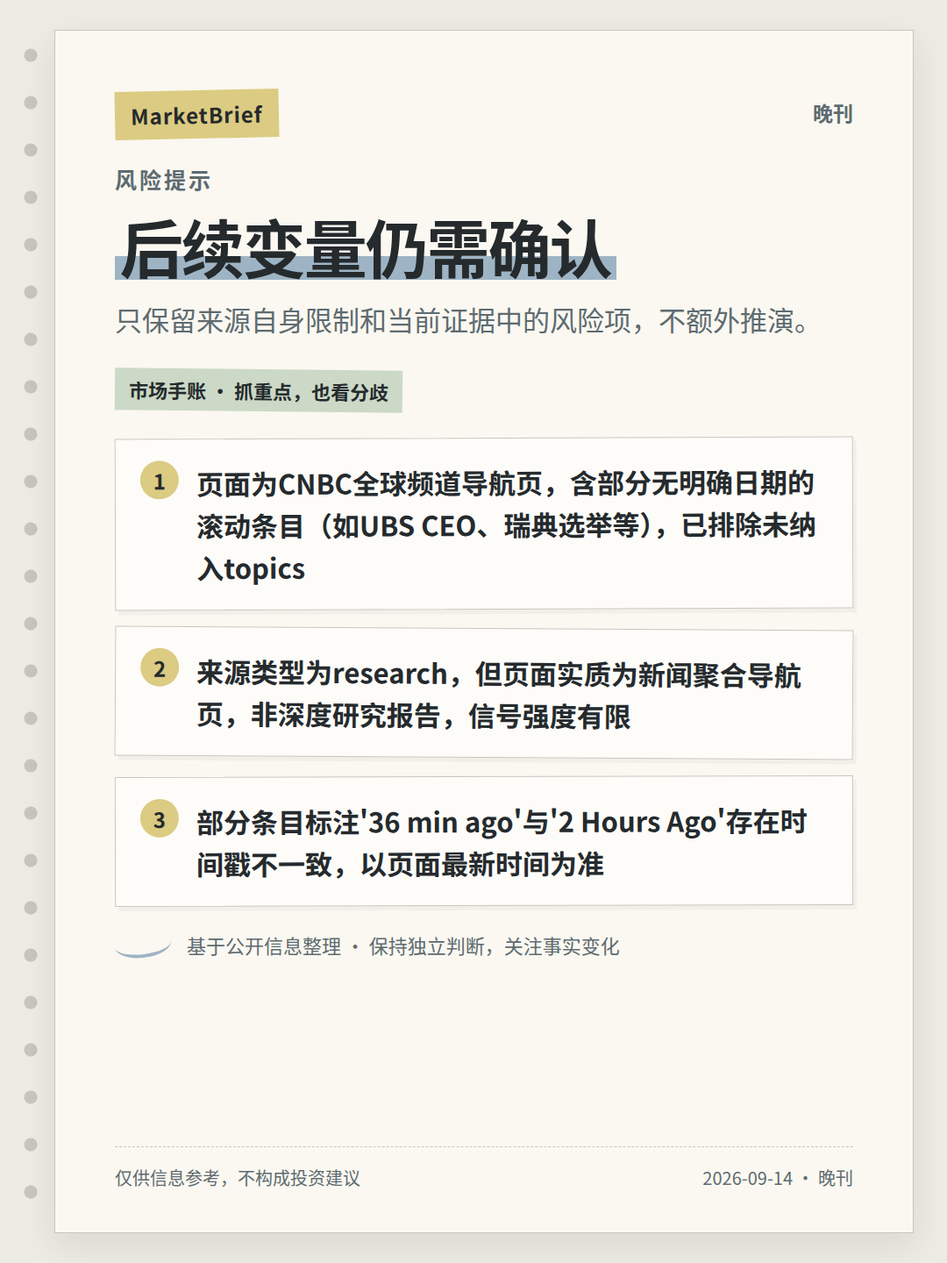
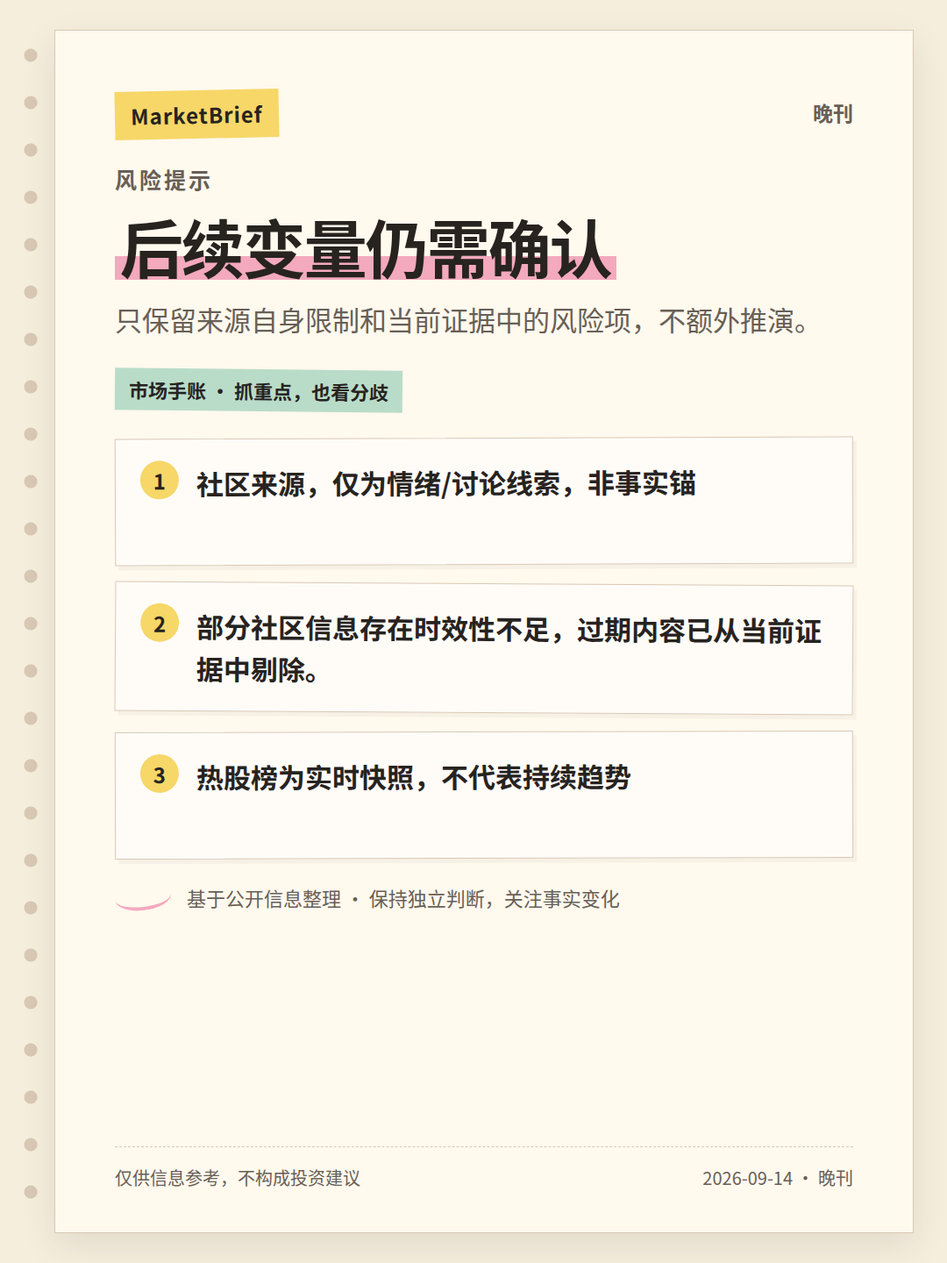
MarketBrief: publish official-source notebook edition

diff --git a/output/marketbrief/2026-09-14/pm/2026-09-14-pm-01.html b/output/marketbrief/2026-09-14/pm/2026-09-14-pm-01.html
@@ -1,33 +1,33 @@
 <!doctype html>
 <html lang="zh-CN"><head><meta charset="utf-8"><style>
-*{box-sizing:border-box}html,body{margin:0;width:1080px;height:1440px;background:#ECEBE4;color:#252A2D;font-family:'Noto Sans CJK SC','Microsoft YaHei',sans-serif}
-body:before{content:'';position:absolute;left:24px;top:36px;bottom:36px;width:22px;background:radial-gradient(circle,#C8C6BC 0 7px,transparent 8px) center top/22px 54px repeat-y}
-main{position:relative;margin:34px 38px 34px 62px;width:980px;height:1372px;padding:68px 68px 52px;background:#FAF8F1;border:1px solid #C8C6BC;box-shadow:0 14px 36px rgba(58,47,39,.10);overflow:hidden}
+*{box-sizing:border-box}html,body{margin:0;width:1080px;height:1440px;background:#F5EEDD;color:#27231F;font-family:'Noto Sans CJK SC','Microsoft YaHei',sans-serif}
+body:before{content:'';position:absolute;left:24px;top:36px;bottom:36px;width:22px;background:radial-gradient(circle,#D8C8B4 0 7px,transparent 8px) center top/22px 54px repeat-y}
+main{position:relative;margin:34px 38px 34px 62px;width:980px;height:1372px;padding:68px 68px 52px;background:#FFF9EE;border:1px solid #D8C8B4;box-shadow:0 14px 36px rgba(58,47,39,.10);overflow:hidden}
 main:after{content:none}
 .top{position:relative;z-index:1;display:flex;justify-content:space-between;align-items:flex-start;margin-bottom:28px}
-.tape{display:inline-block;padding:10px 18px;background:#DCCB82;transform:rotate(-1.2deg);font-size:24px;font-weight:800;letter-spacing:1px}
-.edition{font-size:23px;font-weight:700;color:#5E6B70;padding-top:8px}
-.kicker{position:relative;z-index:1;font-size:25px;font-weight:800;letter-spacing:3px;color:#5E6B70;margin-bottom:18px}
+.tape{display:inline-block;padding:10px 18px;background:#F6D768;transform:rotate(-1.2deg);font-size:24px;font-weight:800;letter-spacing:1px}
+.edition{font-size:23px;font-weight:700;color:#685F56;padding-top:8px}
+.kicker{position:relative;z-index:1;font-size:25px;font-weight:800;letter-spacing:3px;color:#685F56;margin-bottom:18px}
 h1{position:relative;z-index:1;font-size:72px;line-height:1.12;margin:0 0 20px;font-weight:900;letter-spacing:-2px}
-h1 span{background:linear-gradient(transparent 62%,#9EB4C4 62% 88%,transparent 88%);padding:0 .08em}
-.sub{position:relative;z-index:1;font-size:31px;line-height:1.5;color:#5E6B70;margin-bottom:34px;max-width:850px}
-.ribbon{position:relative;z-index:1;display:inline-block;padding:8px 16px;margin-bottom:30px;background:#CBD9C6;font-size:22px;font-weight:700;transform:rotate(.6deg)}
+h1 span{background:linear-gradient(transparent 62%,#F3A9BE 62% 88%,transparent 88%);padding:0 .08em}
+.sub{position:relative;z-index:1;font-size:31px;line-height:1.5;color:#685F56;margin-bottom:34px;max-width:850px}
+.ribbon{position:relative;z-index:1;display:inline-block;padding:8px 16px;margin-bottom:30px;background:#B9DCC8;font-size:22px;font-weight:700;transform:rotate(.6deg)}
 .notes{position:relative;z-index:1;display:grid;gap:21px}
-.note{position:relative;min-height:145px;padding:26px 30px 24px 92px;background:rgba(255,255,255,.56);border:1px solid #C8C6BC;box-shadow:4px 5px 0 rgba(0,0,0,.035);transform:rotate(-.2deg)}
+.note{position:relative;min-height:145px;padding:26px 30px 24px 92px;background:rgba(255,255,255,.56);border:1px solid #D8C8B4;box-shadow:4px 5px 0 rgba(0,0,0,.035);transform:rotate(-.2deg)}
 .note:nth-child(2){transform:rotate(.35deg)}.note:nth-child(3){transform:rotate(-.15deg)}
-.note b{position:absolute;left:28px;top:24px;width:44px;height:44px;border-radius:50%;display:grid;place-items:center;background:#DCCB82;font-size:24px}
+.note b{position:absolute;left:28px;top:24px;width:44px;height:44px;border-radius:50%;display:grid;place-items:center;background:#F6D768;font-size:24px}
 .note p{margin:0;font-size:31px;line-height:1.55;font-weight:650}
-.margin{position:relative;z-index:1;margin-top:28px;display:flex;gap:18px;align-items:center;color:#5E6B70;font-size:22px}
-.sketch{width:64px;height:30px;border-bottom:4px solid #9EB4C4;border-radius:50%;transform:rotate(-7deg)}
-footer{position:absolute;z-index:1;left:68px;right:68px;bottom:48px;border-top:1px dashed #C8C6BC;padding-top:20px;display:flex;justify-content:space-between;gap:20px;color:#5E6B70;font-size:20px}
+.margin{position:relative;z-index:1;margin-top:28px;display:flex;gap:18px;align-items:center;color:#685F56;font-size:22px}
+.sketch{width:64px;height:30px;border-bottom:4px solid #F3A9BE;border-radius:50%;transform:rotate(-7deg)}
+footer{position:absolute;z-index:1;left:68px;right:68px;bottom:48px;border-top:1px dashed #D8C8B4;padding-top:20px;display:flex;justify-content:space-between;gap:20px;color:#685F56;font-size:20px}
 </style></head>
 <body><main>
 <div class="top"><span class="tape">MarketBrief</span><span class="edition">晚刊</span></div>
 <div class="kicker">今日简报</div>
-<h1><span>下周美联储动向成为市场焦点</span></h1>
-<div class="sub">晚刊基于5份有效来源分析，当前重点为下周美联储动向。仅保留时效合格的公开信息，事实、研究观点与市场情绪分开呈现。</div>
+<h1><span>高利率压制流动性、底部震荡结构分化成焦点</span></h1>
+<div class="sub">晚刊基于4份有效来源分析，当前重点为高利率压制流动性、底部震荡结构分化。仅保留时效合格的公开信息，事实、研究观点与市场情绪分开呈现。</div>
 <div class="ribbon">市场手账 · 抓重点，也看分歧</div>
-<div class="notes"><section class="note"><b>1</b><p>AI安全争议与Anthropic IPO：Anthropic寻求纳斯达克上市，Amodei呼吁AI减速，引发市场分歧；Cramer质疑减速宣言；华盛顿加速AI监管立法</p></section><section class="note"><b>2</b><p>美伊霍尔木兹海峡紧张与油价：霍尔木兹海峡船只遇袭，沙特关闭绕过海峡的关键管道，特朗普称或保留伊朗石油；油价上涨，油轮基金暴涨3600%</p></section><section class="note"><b>3</b><p>晨会纪要</p></section></div>
+<div class="notes"><section class="note"><b>1</b><p>策略周报：高利率压制流动性，主要指数走低</p></section><section class="note"><b>2</b><p>策略周报：底部震荡结构分化，配置聚焦量价资金共振主线</p></section><section class="note"><b>3</b><p>策略跟踪报告：南向资金净流入额大幅提升</p></section></div>
 <div class="margin"><span class="sketch"></span><span>基于公开信息整理 · 保持独立判断，关注事实变化</span></div>
 <footer><span>仅供信息参考，不构成投资建议</span><span>2026-09-14 · 晚刊</span></footer>
 </main></body></html>

diff --git a/output/marketbrief/2026-09-14/pm/2026-09-14-pm-05.html b/output/marketbrief/2026-09-14/pm/2026-09-14-pm-05.html
@@ -1,25 +1,25 @@
 <!doctype html>
 <html lang="zh-CN"><head><meta charset="utf-8"><style>
-*{box-sizing:border-box}html,body{margin:0;width:1080px;height:1440px;background:#ECEBE4;color:#252A2D;font-family:'Noto Sans CJK SC','Microsoft YaHei',sans-serif}
-body:before{content:'';position:absolute;left:24px;top:36px;bottom:36px;width:22px;background:radial-gradient(circle,#C8C6BC 0 7px,transparent 8px) center top/22px 54px repeat-y}
-main{position:relative;margin:34px 38px 34px 62px;width:980px;height:1372px;padding:68px 68px 52px;background:#FAF8F1;border:1px solid #C8C6BC;box-shadow:0 14px 36px rgba(58,47,39,.10);overflow:hidden}
+*{box-sizing:border-box}html,body{margin:0;width:1080px;height:1440px;background:#F5EEDD;color:#27231F;font-family:'Noto Sans CJK SC','Microsoft YaHei',sans-serif}
+body:before{content:'';position:absolute;left:24px;top:36px;bottom:36px;width:22px;background:radial-gradient(circle,#D8C8B4 0 7px,transparent 8px) center top/22px 54px repeat-y}
+main{position:relative;margin:34px 38px 34px 62px;width:980px;height:1372px;padding:68px 68px 52px;background:#FFF9EE;border:1px solid #D8C8B4;box-shadow:0 14px 36px rgba(58,47,39,.10);overflow:hidden}
 main:after{content:none}
 .top{position:relative;z-index:1;display:flex;justify-content:space-between;align-items:flex-start;margin-bottom:28px}
-.tape{display:inline-block;padding:10px 18px;background:#DCCB82;transform:rotate(-1.2deg);font-size:24px;font-weight:800;letter-spacing:1px}
-.edition{font-size:23px;font-weight:700;color:#5E6B70;padding-top:8px}
-.kicker{position:relative;z-index:1;font-size:25px;font-weight:800;letter-spacing:3px;color:#5E6B70;margin-bottom:18px}
+.tape{display:inline-block;padding:10px 18px;background:#F6D768;transform:rotate(-1.2deg);font-size:24px;font-weight:800;letter-spacing:1px}
+.edition{font-size:23px;font-weight:700;color:#685F56;padding-top:8px}
+.kicker{position:relative;z-index:1;font-size:25px;font-weight:800;letter-spacing:3px;color:#685F56;margin-bottom:18px}
 h1{position:relative;z-index:1;font-size:72px;line-height:1.12;margin:0 0 20px;font-weight:900;letter-spacing:-2px}
-h1 span{background:linear-gradient(transparent 62%,#9EB4C4 62% 88%,transparent 88%);padding:0 .08em}
-.sub{position:relative;z-index:1;font-size:31px;line-height:1.5;color:#5E6B70;margin-bottom:34px;max-width:850px}
-.ribbon{position:relative;z-index:1;display:inline-block;padding:8px 16px;margin-bottom:30px;background:#CBD9C6;font-size:22px;font-weight:700;transform:rotate(.6deg)}
+h1 span{background:linear-gradient(transparent 62%,#F3A9BE 62% 88%,transparent 88%);padding:0 .08em}
+.sub{position:relative;z-index:1;font-size:31px;line-height:1.5;color:#685F56;margin-bottom:34px;max-width:850px}
+.ribbon{position:relative;z-index:1;display:inline-block;padding:8px 16px;margin-bottom:30px;background:#B9DCC8;font-size:22px;font-weight:700;transform:rotate(.6deg)}
 .notes{position:relative;z-index:1;display:grid;gap:21px}
-.note{position:relative;min-height:145px;padding:26px 30px 24px 92px;background:rgba(255,255,255,.56);border:1px solid #C8C6BC;box-shadow:4px 5px 0 rgba(0,0,0,.035);transform:rotate(-.2deg)}
+.note{position:relative;min-height:145px;padding:26px 30px 24px 92px;background:rgba(255,255,255,.56);border:1px solid #D8C8B4;box-shadow:4px 5px 0 rgba(0,0,0,.035);transform:rotate(-.2deg)}
 .note:nth-child(2){transform:rotate(.35deg)}.note:nth-child(3){transform:rotate(-.15deg)}
-.note b{position:absolute;left:28px;top:24px;width:44px;height:44px;border-radius:50%;display:grid;place-items:center;background:#DCCB82;font-size:24px}
+.note b{position:absolute;left:28px;top:24px;width:44px;height:44px;border-radius:50%;display:grid;place-items:center;background:#F6D768;font-size:24px}
 .note p{margin:0;font-size:31px;line-height:1.55;font-weight:650}
-.margin{position:relative;z-index:1;margin-top:28px;display:flex;gap:18px;align-items:center;color:#5E6B70;font-size:22px}
-.sketch{width:64px;height:30px;border-bottom:4px solid #9EB4C4;border-radius:50%;transform:rotate(-7deg)}
-footer{position:absolute;z-index:1;left:68px;right:68px;bottom:48px;border-top:1px dashed #C8C6BC;padding-top:20px;display:flex;justify-content:space-between;gap:20px;color:#5E6B70;font-size:20px}
+.margin{position:relative;z-index:1;margin-top:28px;display:flex;gap:18px;align-items:center;color:#685F56;font-size:22px}
+.sketch{width:64px;height:30px;border-bottom:4px solid #F3A9BE;border-radius:50%;transform:rotate(-7deg)}
+footer{position:absolute;z-index:1;left:68px;right:68px;bottom:48px;border-top:1px dashed #D8C8B4;padding-top:20px;display:flex;justify-content:space-between;gap:20px;color:#685F56;font-size:20px}
 </style></head>
 <body><main>
 <div class="top"><span class="tape">MarketBrief</span><span class="edition">晚刊</span></div>
@@ -27,7 +27,7 @@ footer{position:absolute;z-index:1;left:68px;right:68px;bottom:48px;border-top:1
 <h1><span>事实、观点与情绪分开看</span></h1>
 <div class="sub">先看已确认事实，再看研究判断和市场情绪是否一致。</div>
 <div class="ribbon">市场手账 · 抓重点，也看分歧</div>
-<div class="notes"><section class="note"><b>1</b><p>美国消费者价格指数(CPI)：BLS于09/11发布最新CPI数据，为窗口内最新通胀指标</p></section><section class="note"><b>2</b><p>AI安全争议与Anthropic IPO：Anthropic寻求纳斯达克上市，Amodei呼吁AI减速，引发市场分歧；Cramer质疑减速宣言；华盛顿加速AI监管立法</p></section><section class="note"><b>3</b><p>继续观察公开信息变化，避免仅凭单一信号下结论。</p></section></div>
+<div class="notes"><section class="note"><b>1</b><p>CPI消费者价格指数发布：09/11发布，具体数值未在本页提供</p></section><section class="note"><b>2</b><p>策略周报：高利率压制流动性，主要指数走低</p></section><section class="note"><b>3</b><p>CPO板块持续活跃：易中天等CPO相关个股热度居前，板块情绪偏热</p></section></div>
 <div class="margin"><span class="sketch"></span><span>基于公开信息整理 · 保持独立判断，关注事实变化</span></div>
 <footer><span>仅供信息参考，不构成投资建议</span><span>2026-09-14 · 晚刊</span></footer>
 </main></body></html>

diff --git a/output/marketbrief/2026-09-14/pm/2026-09-14-pm-06.html b/output/marketbrief/2026-09-14/pm/2026-09-14-pm-06.html
@@ -1,25 +1,25 @@
 <!doctype html>
 <html lang="zh-CN"><head><meta charset="utf-8"><style>
-*{box-sizing:border-box}html,body{margin:0;width:1080px;height:1440px;background:#ECEBE4;color:#252A2D;font-family:'Noto Sans CJK SC','Microsoft YaHei',sans-serif}
-body:before{content:'';position:absolute;left:24px;top:36px;bottom:36px;width:22px;background:radial-gradient(circle,#C8C6BC 0 7px,transparent 8px) center top/22px 54px repeat-y}
-main{position:relative;margin:34px 38px 34px 62px;width:980px;height:1372px;padding:68px 68px 52px;background:#FAF8F1;border:1px solid #C8C6BC;box-shadow:0 14px 36px rgba(58,47,39,.10);overflow:hidden}
+*{box-sizing:border-box}html,body{margin:0;width:1080px;height:1440px;background:#F5EEDD;color:#27231F;font-family:'Noto Sans CJK SC','Microsoft YaHei',sans-serif}
+body:before{content:'';position:absolute;left:24px;top:36px;bottom:36px;width:22px;background:radial-gradient(circle,#D8C8B4 0 7px,transparent 8px) center top/22px 54px repeat-y}
+main{position:relative;margin:34px 38px 34px 62px;width:980px;height:1372px;padding:68px 68px 52px;background:#FFF9EE;border:1px solid #D8C8B4;box-shadow:0 14px 36px rgba(58,47,39,.10);overflow:hidden}
 main:after{content:none}
 .top{position:relative;z-index:1;display:flex;justify-content:space-between;align-items:flex-start;margin-bottom:28px}
-.tape{display:inline-block;padding:10px 18px;background:#DCCB82;transform:rotate(-1.2deg);font-size:24px;font-weight:800;letter-spacing:1px}
-.edition{font-size:23px;font-weight:700;color:#5E6B70;padding-top:8px}
-.kicker{position:relative;z-index:1;font-size:25px;font-weight:800;letter-spacing:3px;color:#5E6B70;margin-bottom:18px}
+.tape{display:inline-block;padding:10px 18px;background:#F6D768;transform:rotate(-1.2deg);font-size:24px;font-weight:800;letter-spacing:1px}
+.edition{font-size:23px;font-weight:700;color:#685F56;padding-top:8px}
+.kicker{position:relative;z-index:1;font-size:25px;font-weight:800;letter-spacing:3px;color:#685F56;margin-bottom:18px}
 h1{position:relative;z-index:1;font-size:72px;line-height:1.12;margin:0 0 20px;font-weight:900;letter-spacing:-2px}
-h1 span{background:linear-gradient(transparent 62%,#9EB4C4 62% 88%,transparent 88%);padding:0 .08em}
-.sub{position:relative;z-index:1;font-size:31px;line-height:1.5;color:#5E6B70;margin-bottom:34px;max-width:850px}
-.ribbon{position:relative;z-index:1;display:inline-block;padding:8px 16px;margin-bottom:30px;background:#CBD9C6;font-size:22px;font-weight:700;transform:rotate(.6deg)}
+h1 span{background:linear-gradient(transparent 62%,#F3A9BE 62% 88%,transparent 88%);padding:0 .08em}
+.sub{position:relative;z-index:1;font-size:31px;line-height:1.5;color:#685F56;margin-bottom:34px;max-width:850px}
+.ribbon{position:relative;z-index:1;display:inline-block;padding:8px 16px;margin-bottom:30px;background:#B9DCC8;font-size:22px;font-weight:700;transform:rotate(.6deg)}
 .notes{position:relative;z-index:1;display:grid;gap:21px}
-.note{position:relative;min-height:145px;padding:26px 30px 24px 92px;background:rgba(255,255,255,.56);border:1px solid #C8C6BC;box-shadow:4px 5px 0 rgba(0,0,0,.035);transform:rotate(-.2deg)}
+.note{position:relative;min-height:145px;padding:26px 30px 24px 92px;background:rgba(255,255,255,.56);border:1px solid #D8C8B4;box-shadow:4px 5px 0 rgba(0,0,0,.035);transform:rotate(-.2deg)}
 .note:nth-child(2){transform:rotate(.35deg)}.note:nth-child(3){transform:rotate(-.15deg)}
-.note b{position:absolute;left:28px;top:24px;width:44px;height:44px;border-radius:50%;display:grid;place-items:center;background:#DCCB82;font-size:24px}
+.note b{position:absolute;left:28px;top:24px;width:44px;height:44px;border-radius:50%;display:grid;place-items:center;background:#F6D768;font-size:24px}
 .note p{margin:0;font-size:31px;line-height:1.55;font-weight:650}
-.margin{position:relative;z-index:1;margin-top:28px;display:flex;gap:18px;align-items:center;color:#5E6B70;font-size:22px}
-.sketch{width:64px;height:30px;border-bottom:4px solid #9EB4C4;border-radius:50%;transform:rotate(-7deg)}
-footer{position:absolute;z-index:1;left:68px;right:68px;bottom:48px;border-top:1px dashed #C8C6BC;padding-top:20px;display:flex;justify-content:space-between;gap:20px;color:#5E6B70;font-size:20px}
+.margin{position:relative;z-index:1;margin-top:28px;display:flex;gap:18px;align-items:center;color:#685F56;font-size:22px}
+.sketch{width:64px;height:30px;border-bottom:4px solid #F3A9BE;border-radius:50%;transform:rotate(-7deg)}
+footer{position:absolute;z-index:1;left:68px;right:68px;bottom:48px;border-top:1px dashed #D8C8B4;padding-top:20px;display:flex;justify-content:space-between;gap:20px;color:#685F56;font-size:20px}
 </style></head>
 <body><main>
 <div class="top"><span class="tape">MarketBrief</span><span class="edition">晚刊</span></div>
@@ -27,7 +27,7 @@ footer{position:absolute;z-index:1;left:68px;right:68px;bottom:48px;border-top:1
 <h1><span>后续变量仍需确认</span></h1>
 <div class="sub">只保留来源自身限制和当前证据中的风险项，不额外推演。</div>
 <div class="ribbon">市场手账 · 抓重点，也看分歧</div>
-<div class="notes"><section class="note"><b>1</b><p>页面为CNBC全球频道导航页，含部分无明确日期的滚动条目（如UBS CEO、瑞典选举等），已排除未纳入topics</p></section><section class="note"><b>2</b><p>来源类型为research，但页面实质为新闻聚合导航页，非深度研究报告，信号强度有限</p></section><section class="note"><b>3</b><p>部分条目标注&#x27;36 min ago&#x27;与&#x27;2 Hours Ago&#x27;存在时间戳不一致，以页面最新时间为准</p></section></div>
+<div class="notes"><section class="note"><b>1</b><p>社区来源，仅为情绪/讨论线索，非事实锚</p></section><section class="note"><b>2</b><p>部分社区信息存在时效性不足，过期内容已从当前证据中剔除。</p></section><section class="note"><b>3</b><p>热股榜为实时快照，不代表持续趋势</p></section></div>
 <div class="margin"><span class="sketch"></span><span>基于公开信息整理 · 保持独立判断，关注事实变化</span></div>
 <footer><span>仅供信息参考，不构成投资建议</span><span>2026-09-14 · 晚刊</span></footer>
 </main></body></html>

diff --git a/output/marketbrief/2026-09-14/pm/2026-09-14-pm-02.html b/output/marketbrief/2026-09-14/pm/2026-09-14-pm-02.html
@@ -1,25 +1,25 @@
 <!doctype html>
 <html lang="zh-CN"><head><meta charset="utf-8"><style>
-*{box-sizing:border-box}html,body{margin:0;width:1080px;height:1440px;background:#ECEBE4;color:#252A2D;font-family:'Noto Sans CJK SC','Microsoft YaHei',sans-serif}
-body:before{content:'';position:absolute;left:24px;top:36px;bottom:36px;width:22px;background:radial-gradient(circle,#C8C6BC 0 7px,transparent 8px) center top/22px 54px repeat-y}
-main{position:relative;margin:34px 38px 34px 62px;width:980px;height:1372px;padding:68px 68px 52px;background:#FAF8F1;border:1px solid #C8C6BC;box-shadow:0 14px 36px rgba(58,47,39,.10);overflow:hidden}
+*{box-sizing:border-box}html,body{margin:0;width:1080px;height:1440px;background:#F5EEDD;color:#27231F;font-family:'Noto Sans CJK SC','Microsoft YaHei',sans-serif}
+body:before{content:'';position:absolute;left:24px;top:36px;bottom:36px;width:22px;background:radial-gradient(circle,#D8C8B4 0 7px,transparent 8px) center top/22px 54px repeat-y}
+main{position:relative;margin:34px 38px 34px 62px;width:980px;height:1372px;padding:68px 68px 52px;background:#FFF9EE;border:1px solid #D8C8B4;box-shadow:0 14px 36px rgba(58,47,39,.10);overflow:hidden}
 main:after{content:none}
 .top{position:relative;z-index:1;display:flex;justify-content:space-between;align-items:flex-start;margin-bottom:28px}
-.tape{display:inline-block;padding:10px 18px;background:#DCCB82;transform:rotate(-1.2deg);font-size:24px;font-weight:800;letter-spacing:1px}
-.edition{font-size:23px;font-weight:700;color:#5E6B70;padding-top:8px}
-.kicker{position:relative;z-index:1;font-size:25px;font-weight:800;letter-spacing:3px;color:#5E6B70;margin-bottom:18px}
+.tape{display:inline-block;padding:10px 18px;background:#F6D768;transform:rotate(-1.2deg);font-size:24px;font-weight:800;letter-spacing:1px}
+.edition{font-size:23px;font-weight:700;color:#685F56;padding-top:8px}
+.kicker{position:relative;z-index:1;font-size:25px;font-weight:800;letter-spacing:3px;color:#685F56;margin-bottom:18px}
 h1{position:relative;z-index:1;font-size:72px;line-height:1.12;margin:0 0 20px;font-weight:900;letter-spacing:-2px}
-h1 span{background:linear-gradient(transparent 62%,#9EB4C4 62% 88%,transparent 88%);padding:0 .08em}
-.sub{position:relative;z-index:1;font-size:31px;line-height:1.5;color:#5E6B70;margin-bottom:34px;max-width:850px}
-.ribbon{position:relative;z-index:1;display:inline-block;padding:8px 16px;margin-bottom:30px;background:#CBD9C6;font-size:22px;font-weight:700;transform:rotate(.6deg)}
+h1 span{background:linear-gradient(transparent 62%,#F3A9BE 62% 88%,transparent 88%);padding:0 .08em}
+.sub{position:relative;z-index:1;font-size:31px;line-height:1.5;color:#685F56;margin-bottom:34px;max-width:850px}
+.ribbon{position:relative;z-index:1;display:inline-block;padding:8px 16px;margin-bottom:30px;background:#B9DCC8;font-size:22px;font-weight:700;transform:rotate(.6deg)}
 .notes{position:relative;z-index:1;display:grid;gap:21px}
-.note{position:relative;min-height:145px;padding:26px 30px 24px 92px;background:rgba(255,255,255,.56);border:1px solid #C8C6BC;box-shadow:4px 5px 0 rgba(0,0,0,.035);transform:rotate(-.2deg)}
+.note{position:relative;min-height:145px;padding:26px 30px 24px 92px;background:rgba(255,255,255,.56);border:1px solid #D8C8B4;box-shadow:4px 5px 0 rgba(0,0,0,.035);transform:rotate(-.2deg)}
 .note:nth-child(2){transform:rotate(.35deg)}.note:nth-child(3){transform:rotate(-.15deg)}
-.note b{position:absolute;left:28px;top:24px;width:44px;height:44px;border-radius:50%;display:grid;place-items:center;background:#DCCB82;font-size:24px}
+.note b{position:absolute;left:28px;top:24px;width:44px;height:44px;border-radius:50%;display:grid;place-items:center;background:#F6D768;font-size:24px}
 .note p{margin:0;font-size:31px;line-height:1.55;font-weight:650}
-.margin{position:relative;z-index:1;margin-top:28px;display:flex;gap:18px;align-items:center;color:#5E6B70;font-size:22px}
-.sketch{width:64px;height:30px;border-bottom:4px solid #9EB4C4;border-radius:50%;transform:rotate(-7deg)}
-footer{position:absolute;z-index:1;left:68px;right:68px;bottom:48px;border-top:1px dashed #C8C6BC;padding-top:20px;display:flex;justify-content:space-between;gap:20px;color:#5E6B70;font-size:20px}
+.margin{position:relative;z-index:1;margin-top:28px;display:flex;gap:18px;align-items:center;color:#685F56;font-size:22px}
+.sketch{width:64px;height:30px;border-bottom:4px solid #F3A9BE;border-radius:50%;transform:rotate(-7deg)}
+footer{position:absolute;z-index:1;left:68px;right:68px;bottom:48px;border-top:1px dashed #D8C8B4;padding-top:20px;display:flex;justify-content:space-between;gap:20px;color:#685F56;font-size:20px}
 </style></head>
 <body><main>
 <div class="top"><span class="tape">MarketBrief</span><span class="edition">晚刊</span></div>
@@ -27,7 +27,7 @@ footer{position:absolute;z-index:1;left:68px;right:68px;bottom:48px;border-top:1
 <h1><span>今晚外部变量</span></h1>
 <div class="sub">只保留当前时效窗口内、已有公开信息支持的海外市场与宏观线索。</div>
 <div class="ribbon">市场手账 · 抓重点，也看分歧</div>
-<div class="notes"><section class="note"><b>1</b><p>美国消费者价格指数(CPI)：BLS于09/11发布最新CPI数据，为窗口内最新通胀指标</p></section><section class="note"><b>2</b><p>美国生产者价格指数(PPI)：BLS于09/10发布最新PPI数据，反映上游成本压力</p></section><section class="note"><b>3</b><p>美国实际收入：BLS于09/11发布实际收入数据，反映工资增长与通胀对比</p></section></div>
+<div class="notes"><section class="note"><b>1</b><p>CPI消费者价格指数发布：09/11发布，具体数值未在本页提供</p></section><section class="note"><b>2</b><p>PPI生产者价格指数发布：09/10发布，具体数值未在本页提供</p></section><section class="note"><b>3</b><p>BLS实践与程序审查结果简报：无日期公告，内容未知</p></section></div>
 <div class="margin"><span class="sketch"></span><span>基于公开信息整理 · 保持独立判断，关注事实变化</span></div>
 <footer><span>仅供信息参考，不构成投资建议</span><span>2026-09-14 · 晚刊</span></footer>
 </main></body></html>

diff --git a/output/marketbrief/2026-09-14/pm/2026-09-14-pm-03.html b/output/marketbrief/2026-09-14/pm/2026-09-14-pm-03.html
@@ -1,33 +1,33 @@
 <!doctype html>
 <html lang="zh-CN"><head><meta charset="utf-8"><style>
-*{box-sizing:border-box}html,body{margin:0;width:1080px;height:1440px;background:#ECEBE4;color:#252A2D;font-family:'Noto Sans CJK SC','Microsoft YaHei',sans-serif}
-body:before{content:'';position:absolute;left:24px;top:36px;bottom:36px;width:22px;background:radial-gradient(circle,#C8C6BC 0 7px,transparent 8px) center top/22px 54px repeat-y}
-main{position:relative;margin:34px 38px 34px 62px;width:980px;height:1372px;padding:68px 68px 52px;background:#FAF8F1;border:1px solid #C8C6BC;box-shadow:0 14px 36px rgba(58,47,39,.10);overflow:hidden}
+*{box-sizing:border-box}html,body{margin:0;width:1080px;height:1440px;background:#F5EEDD;color:#27231F;font-family:'Noto Sans CJK SC','Microsoft YaHei',sans-serif}
+body:before{content:'';position:absolute;left:24px;top:36px;bottom:36px;width:22px;background:radial-gradient(circle,#D8C8B4 0 7px,transparent 8px) center top/22px 54px repeat-y}
+main{position:relative;margin:34px 38px 34px 62px;width:980px;height:1372px;padding:68px 68px 52px;background:#FFF9EE;border:1px solid #D8C8B4;box-shadow:0 14px 36px rgba(58,47,39,.10);overflow:hidden}
 main:after{content:none}
 .top{position:relative;z-index:1;display:flex;justify-content:space-between;align-items:flex-start;margin-bottom:28px}
-.tape{display:inline-block;padding:10px 18px;background:#DCCB82;transform:rotate(-1.2deg);font-size:24px;font-weight:800;letter-spacing:1px}
-.edition{font-size:23px;font-weight:700;color:#5E6B70;padding-top:8px}
-.kicker{position:relative;z-index:1;font-size:25px;font-weight:800;letter-spacing:3px;color:#5E6B70;margin-bottom:18px}
+.tape{display:inline-block;padding:10px 18px;background:#F6D768;transform:rotate(-1.2deg);font-size:24px;font-weight:800;letter-spacing:1px}
+.edition{font-size:23px;font-weight:700;color:#685F56;padding-top:8px}
+.kicker{position:relative;z-index:1;font-size:25px;font-weight:800;letter-spacing:3px;color:#685F56;margin-bottom:18px}
 h1{position:relative;z-index:1;font-size:72px;line-height:1.12;margin:0 0 20px;font-weight:900;letter-spacing:-2px}
-h1 span{background:linear-gradient(transparent 62%,#9EB4C4 62% 88%,transparent 88%);padding:0 .08em}
-.sub{position:relative;z-index:1;font-size:31px;line-height:1.5;color:#5E6B70;margin-bottom:34px;max-width:850px}
-.ribbon{position:relative;z-index:1;display:inline-block;padding:8px 16px;margin-bottom:30px;background:#CBD9C6;font-size:22px;font-weight:700;transform:rotate(.6deg)}
+h1 span{background:linear-gradient(transparent 62%,#F3A9BE 62% 88%,transparent 88%);padding:0 .08em}
+.sub{position:relative;z-index:1;font-size:31px;line-height:1.5;color:#685F56;margin-bottom:34px;max-width:850px}
+.ribbon{position:relative;z-index:1;display:inline-block;padding:8px 16px;margin-bottom:30px;background:#B9DCC8;font-size:22px;font-weight:700;transform:rotate(.6deg)}
 .notes{position:relative;z-index:1;display:grid;gap:21px}
-.note{position:relative;min-height:145px;padding:26px 30px 24px 92px;background:rgba(255,255,255,.56);border:1px solid #C8C6BC;box-shadow:4px 5px 0 rgba(0,0,0,.035);transform:rotate(-.2deg)}
+.note{position:relative;min-height:145px;padding:26px 30px 24px 92px;background:rgba(255,255,255,.56);border:1px solid #D8C8B4;box-shadow:4px 5px 0 rgba(0,0,0,.035);transform:rotate(-.2deg)}
 .note:nth-child(2){transform:rotate(.35deg)}.note:nth-child(3){transform:rotate(-.15deg)}
-.note b{position:absolute;left:28px;top:24px;width:44px;height:44px;border-radius:50%;display:grid;place-items:center;background:#DCCB82;font-size:24px}
+.note b{position:absolute;left:28px;top:24px;width:44px;height:44px;border-radius:50%;display:grid;place-items:center;background:#F6D768;font-size:24px}
 .note p{margin:0;font-size:31px;line-height:1.55;font-weight:650}
-.margin{position:relative;z-index:1;margin-top:28px;display:flex;gap:18px;align-items:center;color:#5E6B70;font-size:22px}
-.sketch{width:64px;height:30px;border-bottom:4px solid #9EB4C4;border-radius:50%;transform:rotate(-7deg)}
-footer{position:absolute;z-index:1;left:68px;right:68px;bottom:48px;border-top:1px dashed #C8C6BC;padding-top:20px;display:flex;justify-content:space-between;gap:20px;color:#5E6B70;font-size:20px}
+.margin{position:relative;z-index:1;margin-top:28px;display:flex;gap:18px;align-items:center;color:#685F56;font-size:22px}
+.sketch{width:64px;height:30px;border-bottom:4px solid #F3A9BE;border-radius:50%;transform:rotate(-7deg)}
+footer{position:absolute;z-index:1;left:68px;right:68px;bottom:48px;border-top:1px dashed #D8C8B4;padding-top:20px;display:flex;justify-content:space-between;gap:20px;color:#685F56;font-size:20px}
 </style></head>
 <body><main>
 <div class="top"><span class="tape">MarketBrief</span><span class="edition">晚刊</span></div>
 <div class="kicker">市场概览</div>
 <h1><span>A股结构与资金</span></h1>
-<div class="sub">只呈现有当前证据支持的指数、成交、涨跌结构和资金特征。</div>
+<div class="sub">当前来源未形成足够完整的A股量价事实，不对指数和成交数据做推测。</div>
 <div class="ribbon">市场手账 · 抓重点，也看分歧</div>
-<div class="notes"><section class="note"><b>1</b><p>策略周报：等待海外不确定性落地，A股蓄势修复</p></section><section class="note"><b>2</b><p>继续观察公开信息变化，避免仅凭单一信号下结论。</p></section><section class="note"><b>3</b><p>继续观察公开信息变化，避免仅凭单一信号下结论。</p></section></div>
+<div class="notes"><section class="note"><b>1</b><p>继续观察公开信息变化，避免仅凭单一信号下结论。</p></section><section class="note"><b>2</b><p>继续观察公开信息变化，避免仅凭单一信号下结论。</p></section><section class="note"><b>3</b><p>继续观察公开信息变化，避免仅凭单一信号下结论。</p></section></div>
 <div class="margin"><span class="sketch"></span><span>基于公开信息整理 · 保持独立判断，关注事实变化</span></div>
 <footer><span>仅供信息参考，不构成投资建议</span><span>2026-09-14 · 晚刊</span></footer>
 </main></body></html>

diff --git a/output/marketbrief/2026-09-14/pm/2026-09-14-pm-04.html b/output/marketbrief/2026-09-14/pm/2026-09-14-pm-04.html
@@ -1,25 +1,25 @@
 <!doctype html>
 <html lang="zh-CN"><head><meta charset="utf-8"><style>
-*{box-sizing:border-box}html,body{margin:0;width:1080px;height:1440px;background:#ECEBE4;color:#252A2D;font-family:'Noto Sans CJK SC','Microsoft YaHei',sans-serif}
-body:before{content:'';position:absolute;left:24px;top:36px;bottom:36px;width:22px;background:radial-gradient(circle,#C8C6BC 0 7px,transparent 8px) center top/22px 54px repeat-y}
-main{position:relative;margin:34px 38px 34px 62px;width:980px;height:1372px;padding:68px 68px 52px;background:#FAF8F1;border:1px solid #C8C6BC;box-shadow:0 14px 36px rgba(58,47,39,.10);overflow:hidden}
+*{box-sizing:border-box}html,body{margin:0;width:1080px;height:1440px;background:#F5EEDD;color:#27231F;font-family:'Noto Sans CJK SC','Microsoft YaHei',sans-serif}
+body:before{content:'';position:absolute;left:24px;top:36px;bottom:36px;width:22px;background:radial-gradient(circle,#D8C8B4 0 7px,transparent 8px) center top/22px 54px repeat-y}
+main{position:relative;margin:34px 38px 34px 62px;width:980px;height:1372px;padding:68px 68px 52px;background:#FFF9EE;border:1px solid #D8C8B4;box-shadow:0 14px 36px rgba(58,47,39,.10);overflow:hidden}
 main:after{content:none}
 .top{position:relative;z-index:1;display:flex;justify-content:space-between;align-items:flex-start;margin-bottom:28px}
-.tape{display:inline-block;padding:10px 18px;background:#DCCB82;transform:rotate(-1.2deg);font-size:24px;font-weight:800;letter-spacing:1px}
-.edition{font-size:23px;font-weight:700;color:#5E6B70;padding-top:8px}
-.kicker{position:relative;z-index:1;font-size:25px;font-weight:800;letter-spacing:3px;color:#5E6B70;margin-bottom:18px}
+.tape{display:inline-block;padding:10px 18px;background:#F6D768;transform:rotate(-1.2deg);font-size:24px;font-weight:800;letter-spacing:1px}
+.edition{font-size:23px;font-weight:700;color:#685F56;padding-top:8px}
+.kicker{position:relative;z-index:1;font-size:25px;font-weight:800;letter-spacing:3px;color:#685F56;margin-bottom:18px}
 h1{position:relative;z-index:1;font-size:72px;line-height:1.12;margin:0 0 20px;font-weight:900;letter-spacing:-2px}
-h1 span{background:linear-gradient(transparent 62%,#9EB4C4 62% 88%,transparent 88%);padding:0 .08em}
-.sub{position:relative;z-index:1;font-size:31px;line-height:1.5;color:#5E6B70;margin-bottom:34px;max-width:850px}
-.ribbon{position:relative;z-index:1;display:inline-block;padding:8px 16px;margin-bottom:30px;background:#CBD9C6;font-size:22px;font-weight:700;transform:rotate(.6deg)}
+h1 span{background:linear-gradient(transparent 62%,#F3A9BE 62% 88%,transparent 88%);padding:0 .08em}
+.sub{position:relative;z-index:1;font-size:31px;line-height:1.5;color:#685F56;margin-bottom:34px;max-width:850px}
+.ribbon{position:relative;z-index:1;display:inline-block;padding:8px 16px;margin-bottom:30px;background:#B9DCC8;font-size:22px;font-weight:700;transform:rotate(.6deg)}
 .notes{position:relative;z-index:1;display:grid;gap:21px}
-.note{position:relative;min-height:145px;padding:26px 30px 24px 92px;background:rgba(255,255,255,.56);border:1px solid #C8C6BC;box-shadow:4px 5px 0 rgba(0,0,0,.035);transform:rotate(-.2deg)}
+.note{position:relative;min-height:145px;padding:26px 30px 24px 92px;background:rgba(255,255,255,.56);border:1px solid #D8C8B4;box-shadow:4px 5px 0 rgba(0,0,0,.035);transform:rotate(-.2deg)}
 .note:nth-child(2){transform:rotate(.35deg)}.note:nth-child(3){transform:rotate(-.15deg)}
-.note b{position:absolute;left:28px;top:24px;width:44px;height:44px;border-radius:50%;display:grid;place-items:center;background:#DCCB82;font-size:24px}
+.note b{position:absolute;left:28px;top:24px;width:44px;height:44px;border-radius:50%;display:grid;place-items:center;background:#F6D768;font-size:24px}
 .note p{margin:0;font-size:31px;line-height:1.55;font-weight:650}
-.margin{position:relative;z-index:1;margin-top:28px;display:flex;gap:18px;align-items:center;color:#5E6B70;font-size:22px}
-.sketch{width:64px;height:30px;border-bottom:4px solid #9EB4C4;border-radius:50%;transform:rotate(-7deg)}
-footer{position:absolute;z-index:1;left:68px;right:68px;bottom:48px;border-top:1px dashed #C8C6BC;padding-top:20px;display:flex;justify-content:space-between;gap:20px;color:#5E6B70;font-size:20px}
+.margin{position:relative;z-index:1;margin-top:28px;display:flex;gap:18px;align-items:center;color:#685F56;font-size:22px}
+.sketch{width:64px;height:30px;border-bottom:4px solid #F3A9BE;border-radius:50%;transform:rotate(-7deg)}
+footer{position:absolute;z-index:1;left:68px;right:68px;bottom:48px;border-top:1px dashed #D8C8B4;padding-top:20px;display:flex;justify-content:space-between;gap:20px;color:#685F56;font-size:20px}
 </style></head>
 <body><main>
 <div class="top"><span class="tape">MarketBrief</span><span class="edition">晚刊</span></div>
@@ -27,7 +27,7 @@ footer{position:absolute;z-index:1;left:68px;right:68px;bottom:48px;border-top:1
 <h1><span>主线与事件交叉验证</span></h1>
 <div class="sub">优先采用官方与研究信息，社区热度只作为辅助信号。</div>
 <div class="ribbon">市场手账 · 抓重点，也看分歧</div>
-<div class="notes"><section class="note"><b>1</b><p>雇主员工成本(ECI)：BLS于09/09发布雇主员工成本数据，含工资与福利趋势</p></section><section class="note"><b>2</b><p>关于刊发境外上市外资股（H 股）发行聆讯后资料集的公告</p></section><section class="note"><b>3</b><p>关于昌红转债回售的第十二次提示性公告</p></section></div>
+<div class="notes"><section class="note"><b>1</b><p>实际工资（Real Earnings）发布：09/11发布，具体数值未在本页提供</p></section><section class="note"><b>2</b><p>策略周报：高利率压制流动性，主要指数走低</p></section><section class="note"><b>3</b><p>策略周报：底部震荡结构分化，配置聚焦量价资金共振主线</p></section></div>
 <div class="margin"><span class="sketch"></span><span>基于公开信息整理 · 保持独立判断，关注事实变化</span></div>
 <footer><span>仅供信息参考，不构成投资建议</span><span>2026-09-14 · 晚刊</span></footer>
 </main></body></html>

diff --git a/output/marketbrief/2026-09-14/pm/brief.md b/output/marketbrief/2026-09-14/pm/brief.md
@@ -1,43 +1,43 @@
-# 下周美联储动向成为市场焦点
+# 高利率压制流动性、底部震荡结构分化成焦点
 
-> 晚刊基于5份有效来源分析，当前重点为下周美联储动向。仅保留时效合格的公开信息，事实、研究观点与市场情绪分开呈现。
+> 晚刊基于4份有效来源分析，当前重点为高利率压制流动性、底部震荡结构分化。仅保留时效合格的公开信息，事实、研究观点与市场情绪分开呈现。
 
 ## 今晚外部变量
 
 只保留当前时效窗口内、已有公开信息支持的海外市场与宏观线索。
 
-- 美国消费者价格指数(CPI)：BLS于09/11发布最新CPI数据，为窗口内最新通胀指标
-- 美国生产者价格指数(PPI)：BLS于09/10发布最新PPI数据，反映上游成本压力
-- 美国实际收入：BLS于09/11发布实际收入数据，反映工资增长与通胀对比
+- CPI消费者价格指数发布：09/11发布，具体数值未在本页提供
+- PPI生产者价格指数发布：09/10发布，具体数值未在本页提供
+- BLS实践与程序审查结果简报：无日期公告，内容未知
 
 ## A股结构与资金
 
-只呈现有当前证据支持的指数、成交、涨跌结构和资金特征。
+当前来源未形成足够完整的A股量价事实，不对指数和成交数据做推测。
 
-- 策略周报：等待海外不确定性落地，A股蓄势修复
 
 ## 主线与事件交叉验证
 
 优先采用官方与研究信息，社区热度只作为辅助信号。
 
-- 雇主员工成本(ECI)：BLS于09/09发布雇主员工成本数据，含工资与福利趋势
-- 关于刊发境外上市外资股（H 股）发行聆讯后资料集的公告
-- 关于昌红转债回售的第十二次提示性公告
+- 实际工资（Real Earnings）发布：09/11发布，具体数值未在本页提供
+- 策略周报：高利率压制流动性，主要指数走低
+- 策略周报：底部震荡结构分化，配置聚焦量价资金共振主线
 
 ## 事实、观点与情绪分开看
 
 先看已确认事实，再看研究判断和市场情绪是否一致。
 
-- 美国消费者价格指数(CPI)：BLS于09/11发布最新CPI数据，为窗口内最新通胀指标
-- AI安全争议与Anthropic IPO：Anthropic寻求纳斯达克上市，Amodei呼吁AI减速，引发市场分歧；Cramer质疑减速宣言；华盛顿加速AI监管立法
+- CPI消费者价格指数发布：09/11发布，具体数值未在本页提供
+- 策略周报：高利率压制流动性，主要指数走低
+- CPO板块持续活跃：易中天等CPO相关个股热度居前，板块情绪偏热
 
 ## 后续变量仍需确认
 
 只保留来源自身限制和当前证据中的风险项，不额外推演。
 
-- 页面为CNBC全球频道导航页，含部分无明确日期的滚动条目（如UBS CEO、瑞典选举等），已排除未纳入topics
-- 来源类型为research，但页面实质为新闻聚合导航页，非深度研究报告，信号强度有限
-- 部分条目标注'36 min ago'与'2 Hours Ago'存在时间戳不一致，以页面最新时间为准
+- 社区来源，仅为情绪/讨论线索，非事实锚
+- 部分社区信息存在时效性不足，过期内容已从当前证据中剔除。
+- 热股榜为实时快照，不代表持续趋势
 
 ## 信息口径
 
@@ -48,5 +48,5 @@
 本文仅作公开信息整理与讨论，不构成任何投资建议。
 
 刊期：2026-09-14 晚刊  
-生成时间：2026-09-14T13:29:58+08:00  
-模型：`SenseNova` · 调用 4 次 · Token 7992
+生成时间：2026-09-14T18:27:18+08:00  
+模型：`SenseNova` · 调用 4 次 · Token 8796
